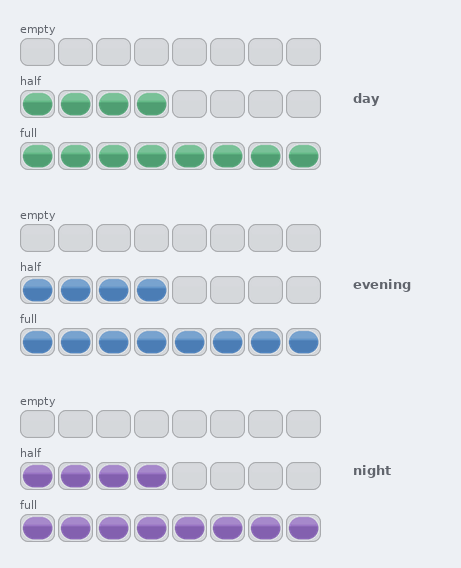
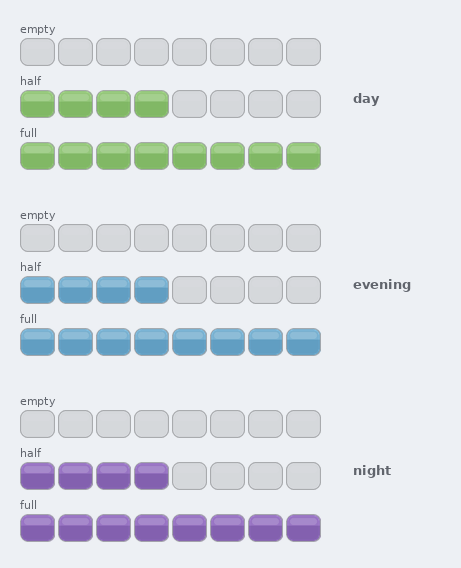
palette: v3 — brighter yellow-green, sky blue, fills complete the box
User review of v2: keep the box squareness but the inner fill read
as a small capsule — fills now have fillInsetRatio 0, i.e. the fill
IS the box shape growing left→right, with the hairline rim drawn
over it so filled cells still look like glass. Green shifts toward
yellow (hue ~100) and brighter; evening goes sky (hue ~202, lighter);
night unchanged per user.

diff --git a/palette/render_preview.py b/palette/render_preview.py
@@ -54,7 +54,12 @@ def font(size, bold=False):
 
 
 def make_pill(glass, hair, fill, sheen, edge, frac):
-    """One pill at 3x supersampling, drawn like the platform renderers."""
+    """One pill at 3x supersampling, drawn like the platform renderers.
+
+    The fill completely fills the box (fillInsetRatio 0): the box shape
+    grows left→right with the hairline rim always on top, so a full
+    section reads as a filled glass cell, not a pill inside a pill.
+    """
     s = 3
     W, H = PILL_W * s, PILL_H * s
     r = RADIUS * s
@@ -63,21 +68,21 @@ def make_pill(glass, hair, fill, sheen, edge, frac):
     d = ImageDraw.Draw(im, "RGBA")
     box = [0, 0, W - 1, H - 1]
 
-    # glass body + hairline rim
-    d.rounded_rectangle(box, radius=r, fill=glass, outline=hair, width=1 * s)
+    # glass body
+    d.rounded_rectangle(box, radius=r, fill=glass)
 
-    # inset fill capsule (left-anchored, grows with frac)
+    # fill: same box geometry, growing left→right
     if frac > 0:
         inner_w = (W - 2 * inset) * min(frac, 1.0)
-        inner = [inset, inset, inset + max(inner_w, inset), H - inset]
-        ir = min((H - 2 * inset) // 2, inner_w / 2)
+        inner = [inset, inset, inset + max(inner_w, inset), H - 1 - inset]
+        ir = min(r, inner_w / 2)
         cd = ImageDraw.Draw(im, "RGBA")
         cd.rounded_rectangle(inner, radius=ir, fill=fill)
 
-        # sheen band on the fill capsule's top (alpha-composite, clipped)
-        band_h = int((H - 2 * inset) * SHAPE["sheenFraction"])
+        # sheen band on the fill's top (alpha-composite, clipped)
+        band_h = int((inner[3] - inner[1]) * SHAPE["sheenFraction"])
         band = Image.new("RGBA", (W, H), (0, 0, 0, 0))
-        ImageDraw.Draw(band).rectangle([0, 0, W, inset + band_h], fill=sheen)
+        ImageDraw.Draw(band).rectangle([0, 0, W, inner[1] + band_h], fill=sheen)
         clip = Image.new("L", (W, H), 0)
         ImageDraw.Draw(clip).rounded_rectangle(inner, radius=ir, fill=255)
         band.putalpha(ImageChops.multiply(band.split()[3], clip))
@@ -86,10 +91,15 @@ def make_pill(glass, hair, fill, sheen, edge, frac):
     # specular streak near the top inside every pill (glass cue)
     spec = Image.new("RGBA", (W, H), (0, 0, 0, 0))
     sd = ImageDraw.Draw(spec)
-    sbox = [inset, inset, W - inset - 1, inset + (H - 2 * inset) // 3]
-    sd.rounded_rectangle(sbox, radius=(H - 2 * inset) // 3,
+    sp = max(1, r // 2)
+    sbox = [sp, sp, W - 1 - sp, sp + (H - 2 * sp) // 3]
+    sd.rounded_rectangle(sbox, radius=(sbox[3] - sbox[1]) / 2,
                          fill=(255, 255, 255, 22))
     im.paste(spec, (0, 0), spec)
+
+    # hairline rim last: the glass edge stays crisp over any fill
+    d = ImageDraw.Draw(im, "RGBA")
+    d.rounded_rectangle(box, radius=r, outline=hair, width=1 * s)
 
     im = im.resize((PILL_W, PILL_H), Image.LANCZOS)
     return im
